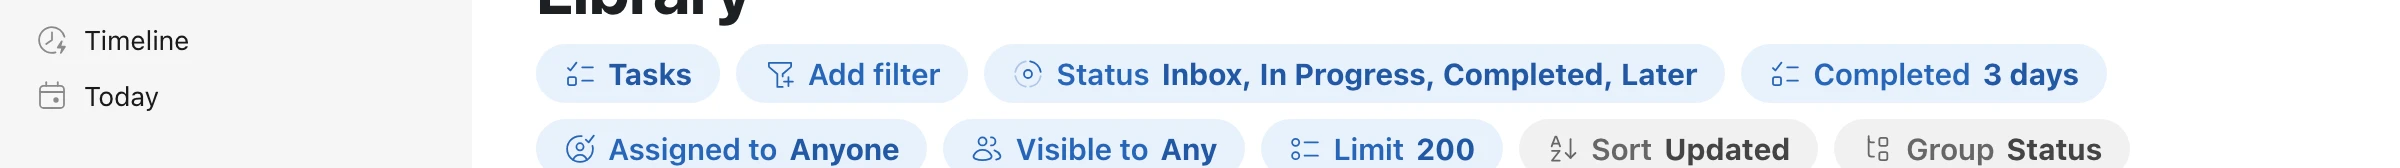
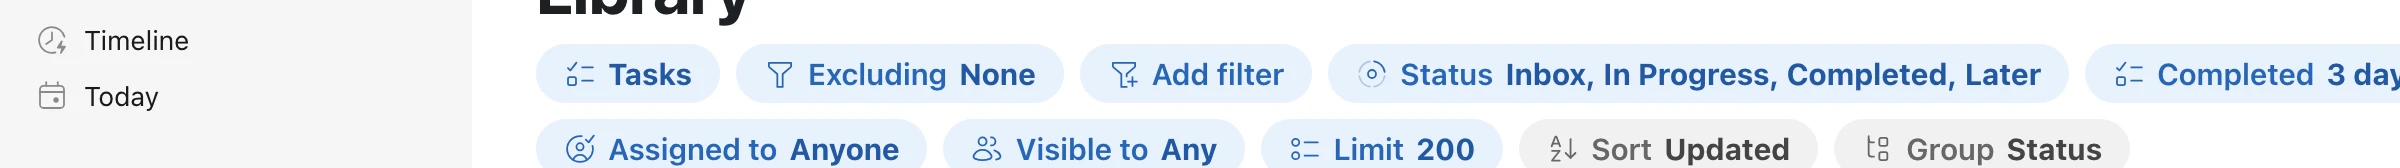
Add Excluding type filter to saved searches

diff --git a/main/views.js b/main/views.js
@@ -4,7 +4,7 @@ const path = require('node:path');
 const { peerIdentity } = require('../tana-session');
 const { createTanaClient, takeCalls } = require('../sdk');
 const { everyoneOnly } = require('../sdk/access');
-const { liveTrigger, parseQuery, searchParams, needsTypes, viewParams, completedInWindow, completedWindow, filterToSearchQuery, searchQueryToFilter, validViewFilter, VIEW_PRESETS, hideRules, isHidden, addMeetingChats } = require('../sdk/query');
+const { liveTrigger, parseQuery, searchParams, needsTypes, viewParams, excludedType, completedInWindow, completedWindow, filterToSearchQuery, searchQueryToFilter, validViewFilter, VIEW_PRESETS, hideRules, isHidden, addMeetingChats } = require('../sdk/query');
 const { readSearch, searchDisplay, searchSort, setSearchQuery, setSearchView, rowLimit } = require('../sdk/node');
 const { DOC_URI, LIVE_ROWS, NOT_CONNECTED, S, VIEWS, deletedNodes, docStates, errText, idKind, inboxFrom, handedAt, isDeleted, isMcp, memberTitle, now, pageOf, reading, truncatedViews, typeTitles, redoStack, report, scheduleRefresh, send, setStatus, subscribed, undoStack, visibleGraphNodes } = require('./state');
 const { graphRow, members, rememberNodeHue, resolveMeetings, resolveTypes, toNode, typesByTitle } = require('./rows');
@@ -48,7 +48,7 @@ async function viewRows(id, filter) {
   const rules = hiddenRules();
   let nodes = result.nodes.filter((n) => !(docsWithoutTasks && idKind(n.id) === 'text' && n.state && n.state.type))
     // the completed window (sdk/query.js): the graph has no field to ask it for, so it is applied to the answer
-    .filter((n) => completedInWindow(n, f.completedWithin))
+    .filter((n) => completedInWindow(n, f.completedWithin) && !excludedType(n, f.excluding))
     .filter((n) => !isHidden(memberTitle(n), rules));
   if (f.audience === 'everyone') nodes = await everyoneOnly(S.client.graph, nodes);
   nodes.forEach(rememberNodeHue);
@@ -192,7 +192,7 @@ async function searchCreate(id, title) {
   const filter = viewFilter(id); // throws on an unknown view before anything is created
   const query = filterToSearchQuery(filter, S.me && S.me.userUri, await workflowTypes(filter.types || []));
   const name = typeof title === 'string' && title.trim() ? title.trim() : searchTitle(id, filter);
-  return createDocument(name, { kind: 'search', query, view: { completedWithin: filter.completedWithin, audience: filter.audience, limit: filter.limit } });
+  return createDocument(name, { kind: 'search', query, view: { excluding: filter.excluding, completedWithin: filter.completedWithin, audience: filter.audience, limit: filter.limit } });
 }
 // My Tasks, the right half of the Default View (renderer/timeline.js): the search the synced setting 'myTasks' names, so a
 // rename in Tana keeps it and two machines share it; without one, your own saved search of that name (the oldest, so
@@ -522,7 +522,7 @@ const ipc = {
     return {
       // the completed window is the app's own, so it is stored beside the query and handed back as part of the filter
       // the pills edit; absent, it reads as the default the pill shows the first time Completed is asked for
-      filter: { ...searchQueryToFilter(query, S.me && S.me.userUri), completedWithin: completedWindow(arrangement.completedWithin), audience: arrangement.audience === 'everyone' ? 'everyone' : null, limit: rowLimit(arrangement.limit) },
+      filter: { ...searchQueryToFilter(query, S.me && S.me.userUri), excluding: validViewFilter({ excluding: arrangement.excluding }) ? arrangement.excluding : null, completedWithin: completedWindow(arrangement.completedWithin), audience: arrangement.audience === 'everyone' ? 'everyone' : null, limit: rowLimit(arrangement.limit) },
       sort: searchSort(arrangement.sortBy),
       group: arrangement.groupBy,
       // Tana's record of key -> { shown, order } (or the comma-joined string earlier builds wrote)
@@ -534,7 +534,7 @@ const ipc = {
     const flows = await workflowTypes(filter.types || []);
     return mut(id, (doc) => {
       setSearchQuery(doc, filterToSearchQuery(filter, S.me && S.me.userUri, flows));
-      setSearchView(doc, { sortBy: sort, groupBy: group, display, completedWithin: filter.completedWithin, audience: filter.audience, limit: filter.limit }); // saved together: one press, one state of the page
+      setSearchView(doc, { sortBy: sort, groupBy: group, display, excluding: filter.excluding, completedWithin: filter.completedWithin, audience: filter.audience, limit: filter.limit }); // saved together: one press, one state of the page
     });
   },
   // Hidden titles: the user's list of patterns, applied to every list and search (see listFilter/sdk-query isHidden).

diff --git a/sdk/query.js b/sdk/query.js
@@ -92,7 +92,7 @@ function assigneeParams(assignee, me) {
 // audience: 'everyone' lists what everyone in the org can see (#253). The graph can only ask Tana's "Open" (restricted:
 // false, which includes whatever a restricted space or meeting holds), so that is the query and access.js
 // everyoneOnly narrows the answer, the way completedWithin is applied after the query.
-const FILTER_KEYS = new Set(['types', 'states', 'assignee', 'text', 'participant', 'window', 'completedWithin', 'fields', 'audience', 'limit']);
+const FILTER_KEYS = new Set(['types', 'excluding', 'states', 'assignee', 'text', 'participant', 'window', 'completedWithin', 'fields', 'audience', 'limit']);
 const { USER_URI: USER, TYPE_URI } = require('./ids');
 // A filter's types may also name the workspace's own types (`tana:type:` uris, #139): every Risk, say. They are sent as
 // entityTypes, which the graph ORs among themselves and ANDs with the kinds (verified live 2026-09-25: Risk 18 +
@@ -128,6 +128,7 @@ function completedInWindow(n, within, now = Date.now()) {
 function validViewFilter(f) {
   return !!f && !Array.isArray(f) && typeof f === 'object' && Object.keys(f).every((k) => FILTER_KEYS.has(k))
     && (f.types === undefined || f.types === null || Array.isArray(f.types) && f.types.every((x) => VIEW_KINDS.includes(x) || TYPE_URI.test(x)))
+    && (f.excluding === undefined || f.excluding === null || Array.isArray(f.excluding) && f.excluding.every((x) => VIEW_KINDS.includes(x) || TYPE_URI.test(x)))
     && (f.states === undefined || f.states === null || Array.isArray(f.states) && f.states.every((x) => STATE_TYPES.includes(x)))
     && (f.assignee === undefined || ['me', 'anyone', 'unassigned'].includes(f.assignee) || USER.test(f.assignee))
     && (f.text === undefined || typeof f.text === 'string')
@@ -140,6 +141,13 @@ function validViewFilter(f) {
     // filterToSearchQuery passes on and attributeFilters cleans the way Tana does
     && (f.fields === undefined || f.fields === null || (typeof f.fields === 'object' && !Array.isArray(f.fields)
       && Object.entries(f.fields).every(([k, v]) => FIELD_KEY.test(k) && !!v && typeof v === 'object' && !Array.isArray(v))));
+}
+// Exclusions are applied after the server limit, like the completed-age filter: GraphService has no NOT selector.
+function excludedType(n, excluding) {
+  if (!Array.isArray(excluding)) return false;
+  const nodeType = String(n.id || '').split(':')[1];
+  const kind = nodeType === 'text' ? (n.state && n.state.type ? 'tasks' : 'docs') : NODE_TYPE_KIND[nodeType];
+  return excluding.includes(kind) || !!n.entityType && excluding.includes(n.entityType);
 }
 const FIELD_KEY = /^tana:type:[0-9a-z]{26}\?attribute=[0-9a-z]+$/;
 // A filter's field values narrow the list to the rows that have them, wherever each field has a pill to show it
@@ -399,4 +407,4 @@ function addMeetingChats(answer) {
   };
 }
 
-module.exports = { addMeetingChats, liveTrigger, parseQuery, searchParams, needsTypes, viewParams, searchQueryParams, searchOwners, filterToSearchQuery, searchQueryToFilter, validViewFilter, VIEW_PRESETS, VIEW_KINDS, KIND_NODE_TYPE, hideRules, isHidden, completedWindow, completedInWindow };
+module.exports = { excludedType, addMeetingChats, liveTrigger, parseQuery, searchParams, needsTypes, viewParams, searchQueryParams, searchOwners, filterToSearchQuery, searchQueryToFilter, validViewFilter, VIEW_PRESETS, VIEW_KINDS, KIND_NODE_TYPE, hideRules, isHidden, completedWindow, completedInWindow };

diff --git a/renderer/pills.js b/renderer/pills.js
@@ -17,7 +17,7 @@ function pillDefs() {
   // The kinds, then the workspace's own types (#139). The two sets do not mix: ticking one clears the other, since
   // Tasks and Risk together would mean tasks that are risks (sdk/query.js), never what somebody ticking both meant.
   const kindIds = TYPES.filter(Boolean).map((x) => x[0]), kinds = (f.types || []).filter((x) => kindIds.includes(x)), typed = (f.types || []).filter((x) => !kindIds.includes(x));
-  if (typed.length) loadWorkspaceTypes(); // the pill names them
+  if (typed.length || (f.excluding || []).length) loadWorkspaceTypes(); // the pill names them
   const typeName = (uri) => ((typeListCache || []).find((t) => t.uri === uri) || {}).title || '…';
   // A kind page (Tasks, Meetings, Chats, People) is that kind: only the Library and the Inbox pick their kinds.
   // A saved search is never a kind page — choosing what it lists is the whole point of it.
@@ -28,6 +28,14 @@ function pillDefs() {
     ...TYPES.map((t) => (t ? { label: t[1], icon: t[2], keepOpen: true, checked: kinds.includes(t[0]), run: () => save({ types: toggleIn(kindIds, kinds.length ? kinds : null, t[0]), fields: null }) } : { div: true })), // multi-select: the menu stays open to tick more
     ...(typeListCache && typeListCache.length ? [{ head: 'Workspace types' }, ...typeListCache.map((t) => ({ label: t.title || 'Untitled type', icon: typeGlyph(t.uri), keepOpen: true, checked: typed.includes(t.uri), run: () => save({ types: toggleIn(typeListCache.map((x) => x.uri), typed.length ? typed : null, t.uri), fields: null }) }))] : []),
   ]) });
+  if (!onTypePage()) {
+    const excluded = f.excluding || [], toggle = (id) => save({ excluding: excluded.includes(id) ? excluded.filter((x) => x !== id) : [...excluded, id] });
+    defs.push({ id: 'excluding', label: 'Excluding', command: 'Exclude types', icon: 'filter', value: excluded.map((id) => (TYPES.find((t) => t && t[0] === id) || [])[1] || typeName(id)).join(', ') || 'None', rows: () => (loadWorkspaceTypes(), [
+      { label: 'None', reset: true, checked: !excluded.length, run: () => save({ excluding: null }) },
+      ...TYPES.map((t) => t ? { label: t[1], icon: t[2], keepOpen: true, checked: excluded.includes(t[0]), run: () => toggle(t[0]) } : { div: true }),
+      ...(typeListCache && typeListCache.length ? [{ head: 'Workspace types' }, ...typeListCache.map((t) => ({ label: t.title || 'Untitled type', icon: typeGlyph(t.uri), keepOpen: true, checked: excluded.includes(t.uri), run: () => toggle(t.uri) }))] : []),
+    ]) });
+  }
   // Meetings alone: when they take place (#492), Tana's presets, one at a time.
   if (onlyMeetings(f)) defs.push({ id: 'when', label: 'When', command: 'Filter by meeting time', icon: 'calendar', value: whenName(f.window), rows: () => [
     { label: 'Any time', reset: true, checked: !f.window, run: () => save({ window: null }) },

diff --git a/scripts/sdk-check.js b/scripts/sdk-check.js
@@ -163,7 +163,10 @@ async function main() {
     assert.equal(view.sortBy, '-updated', "Orbital's Updated is newest first, which Tana spells -updated");
     assert.deepEqual(view.display, { status: { shown: true, order: 0 }, updated: { shown: true, order: 1 } });
     assert.deepEqual([nodeSdk.searchSort(view.sortBy), nodeSdk.searchDisplay(view.display), nodeSdk.searchDisplay('type,space')], ['updated', ['status', 'updated'], ['type', 'space']]);
+    nodeSdk.setSearchView(d, { excluding: ['tasks', 'tana:type:' + 'a'.repeat(26)] });
+    assert.deepEqual(nodeSdk.readSearch(d).view.excluding, ['tasks', 'tana:type:' + 'a'.repeat(26)], 'saved exclusions round-trip');
     nodeSdk.setSearchView(d, { sortBy: 'title' });
+    assert.equal(nodeSdk.readSearch(d).view.excluding, undefined, 'clearing exclusions removes the stored value');
     assert.equal(d.loro.getMap('view').toJSON().sortBy, 'title', 'A to Z is Tana\'s ascending title');
     assert.deepEqual(nodeSdk.readSearch(d), { query: d.loro.getMap('query').toJSON(), view: { sortBy: 'title' } }, 'readSearch hands back what the two writers stored');
     assert.deepEqual(nodeSdk.readSearch(new Document('tana:search:' + ulid())), { query: {}, view: {} }, 'and an unreadable search reads as an empty query, which searchChildren refuses');
@@ -4608,6 +4611,18 @@ async function main() {
     assert.equal(viewParams({ types: ['docs'], text: ' dpa ' }, ME, 25).limit, 25);
     assert.equal(validViewFilter({ types: ['docs'], states: null, assignee: 'anyone', text: '', participant: null, window: null }), true);
     assert.equal(validViewFilter({ types: ['nope'] }), false);
+    const { excludedType } = require('../sdk/query');
+    const exclusionType = 'tana:type:' + 'a'.repeat(26);
+    assert.equal(validViewFilter({ excluding: ['tasks', exclusionType] }), true);
+    assert.equal(validViewFilter({ excluding: ['nope'] }), false);
+    const excludedTask = { id: 'tana:text:x', state: { type: 'closed' }, entityType: exclusionType };
+    assert.equal(excludedType(excludedTask, ['tasks']), true);
+    assert.equal(excludedType(excludedTask, ['docs']), false);
+    assert.equal(excludedType(excludedTask, [exclusionType]), true);
+    assert.equal(excludedType({ id: 'tana:text:x' }, ['docs']), true);
+    assert.equal(excludedType({ id: 'tana:event:x' }, ['meetings']), true);
+    assert.equal(excludedType(excludedTask, null), false);
+
     assert.equal(validViewFilter({ types: ['tasks'], extra: true }), false);
     // The completed window: how old a completed task may be and still be listed. Whether completed tasks are asked
     // for at all is the Status filter (stateTypes), so this never has an "off" — and the graph has no field to ask

diff --git a/main/related.js b/main/related.js
@@ -3,7 +3,7 @@ const fields = require('../sdk/fields');
 const pins = require('../sdk/pins');
 const { dateUri, isDateUri } = require('../sdk/dates');
 const { openEdgeQuery, openLiveQuery, EDGE_TYPES } = require('../sdk/livequery');
-const { completedInWindow, filterToSearchQuery, liveTrigger, searchQueryParams, validViewFilter } = require('../sdk/query');
+const { excludedType, completedInWindow, filterToSearchQuery, liveTrigger, searchQueryParams, validViewFilter } = require('../sdk/query');
 const { everyoneOnly } = require('../sdk/access');
 const { readSearch, rowLimit } = require('../sdk/node');
 const { NOTES_SLOTS, callOf, notesSlotId, writeUpOf } = require('../sdk/events');
@@ -48,7 +48,7 @@ async function searchChildren(id, page = 'main') {
   // renderer/nodes.js). A newer read that failed decides nothing, so an older one that answered still keeps its rows live.
   // And only for what the search asks now: an older read that answered after a Save asked what came before. That is
   // the query and the two view settings searchRows narrows the answer by (completed window, audience).
-  const asks = (q, v) => JSON.stringify([q, (v || {}).completedWithin, (v || {}).audience, rowLimit((v || {}).limit)]);
+  const asks = (q, v) => JSON.stringify([q, (v || {}).excluding, (v || {}).completedWithin, (v || {}).audience, rowLimit((v || {}).limit)]);
   const same = await op(id, readSearch).then((now) => asks(now.query, now.view) === asks(query, view), () => false);
   if (same && seq > (headRead.get(read) || 0)) {
     headRead.set(read, seq);
@@ -91,7 +91,7 @@ async function searchRows(query, narrow, limit = 200) {
   const scoped = Array.isArray(query.ownerUris) && query.ownerUris.some((u) => typeof u === 'string' && isSpace(u));
   const spaces = scoped ? (await S.client.graph.listNodes({ nodeTypes: ['space'], limit: 1000 })).nodes : [];
   const answered = await S.client.graph.listNodes(searchQueryParams(query, S.me && S.me.userUri, limit, undefined, spaces));
-  let nodes = answered.nodes.filter((n) => completedInWindow(n, narrow.completedWithin));
+  let nodes = answered.nodes.filter((n) => completedInWindow(n, narrow.completedWithin) && !excludedType(n, narrow.excluding));
   if (narrow.audience === 'everyone') nodes = await everyoneOnly(S.client.graph, nodes);
   nodes.forEach(rememberNodeHue);
   await Promise.all([resolveTypes(nodes.map((n) => n.entityType)), resolveMeetings(nodes)]);

diff --git a/renderer/mock.js b/renderer/mock.js
@@ -377,7 +377,7 @@ function mockApi() {
   // the rows a filter finds: a staged filter's preview, and a saved search's page (children)
   const preview = (filter) => {
     const text = String(filter.text || '').trim().toLowerCase();
-    return [...all, ...members].filter((d) => (!filter.types ? kindOf(d) !== 'people' : filter.types.includes(kindOf(d)) || (d.tags || []).some((t) => t && filter.types.includes(t.uri)))
+    return [...all, ...members].filter((d) => !(filter.excluding || []).includes(kindOf(d)) && !(d.tags || []).some((t) => t && (filter.excluding || []).includes(t.uri))).filter((d) => (!filter.types ? kindOf(d) !== 'people' : filter.types.includes(kindOf(d)) || (d.tags || []).some((t) => t && filter.types.includes(t.uri)))
       && (!filter.states || listed(d, filter))
       && meetingWindow(d, filter) && d.text.toLowerCase().includes(text)).map(info);
   };
@@ -413,7 +413,7 @@ function mockApi() {
     viewList: async (_id, filter) => {
       await new Promise((r) => setTimeout(r, 30));
       const text = String(filter.text || '').trim().toLowerCase();
-      return { nodes: [...all, ...members].filter((d) => (!filter.types ? !['people', 'types'].includes(kindOf(d)) : filter.types.includes(kindOf(d)) || (d.tags || []).some((t) => t && filter.types.includes(t.uri)))
+      return { nodes: [...all, ...members].filter((d) => !(filter.excluding || []).includes(kindOf(d)) && !(d.tags || []).some((t) => t && (filter.excluding || []).includes(t.uri))).filter((d) => (!filter.types ? !['people', 'types'].includes(kindOf(d)) : filter.types.includes(kindOf(d)) || (d.tags || []).some((t) => t && filter.types.includes(t.uri)))
         && (!filter.states || (filter.types && !filter.types.includes('tasks')) || listed(d, filter)) // a state only filters tasks (sdk/query.js)
         && meetingWindow(d, filter) && d.text.toLowerCase().includes(text)).map(info), truncated: false };
     },

diff --git a/manual/views.html b/manual/views.html
@@ -116,7 +116,7 @@
     <h2 id="pills" data-k="filter pill status assigned visible limit completed when">Filter with the pills</h2>
     <p>The pills under the title say what the list asks Tana for. Blue pills filter which rows come back; grey ones only arrange the rows that did.</p>
     <figure class="anno wide">
-      <img data-m="views-pills" alt="The Library's pills: Type, Add filter, Status, Completed, Assigned to, Visible to, Limit, Sort, Group, Display and Save as search">
+      <img data-m="views-pills" alt="The Library's pills: Type, Excluding, Add filter, Status, Completed, Assigned to, Visible to, Limit, Sort, Group, Display and Save as search">
       <span class="pin" style="--x:3.4%;--y:27%">1</span>
       <span class="pin" style="--x:21.8%;--y:27%">2</span>
       <span class="pin" style="--x:52.6%;--y:27%">3</span>
@@ -127,6 +127,7 @@
       <span class="pin" style="--x:58.4%;--y:71%">8</span>
     </figure>
     <ol class="legend">
+      <li><b>Excluding</b> Removes selected kinds or workspace types from the results. Use <b>None</b> to clear it, or <kbd>⌘K</kbd> → <b>Exclude types</b>. Exclusions win over Type and are saved with the search. Both Orbital phones honour them; Tana’s own app does not. They apply after the result limit, so fewer rows may remain.</li>
       <li><b>Type</b> Picks kinds (Meetings, Tasks, Docs, Chats, Canvases, Agents, Skills, Searches, Spaces, People, Types) or your workspace's own types. The two lists never mix: ticking one clears the other.</li>
       <li><b>Status</b> Picks task states: Inbox, In Progress, Completed, Later. It only counts while tasks are in the list: Tasks, or workspace types that have a workflow.</li>
       <li><b>Completed</b> How old a completed task may be and still show: 3 days, 7 days, 30 days or All. Shown while Status lets Completed in.</li>

diff --git a/ios/engine/index.js b/ios/engine/index.js
@@ -10,7 +10,7 @@ import { insertAfter, insertImage, readOutline } from '../../sdk/content';
 import { initImage, uploadFile } from '../../sdk/assets';
 import { addMessage, chatRows, triggerReply } from '../../sdk/chat';
 import { datePins, pinDate, sidebarTree, unpinDate } from '../../sdk/pins';
-import { completedInWindow, liveTrigger, searchQueryParams, searchQueryToFilter } from '../../sdk/query';
+import { excludedType, completedInWindow, liveTrigger, searchQueryParams, searchQueryToFilter } from '../../sdk/query';
 import { definitions, fieldDefinition, parseKey, setFieldText } from '../../sdk/fields';
 import { dateLabel, isDateUri } from '../../sdk/dates';
 import { NOTES_SLOTS, attendees, notesOurs, notesSlotId, writeUpOf } from '../../sdk/events';
@@ -161,7 +161,7 @@ async function searchRows(doc) {
   const scoped = (query.ownerUris || []).some((u) => typeof u === 'string' && isSpace(u));
   const spaces = scoped ? (await S.client.graph.listNodes({ nodeTypes: ['space'], limit: 1000 })).nodes : [];
   const { nodes = [] } = await S.client.graph.listNodes(searchQueryParams(query, S.me.userUri, rowLimit(view.limit), undefined, spaces));
-  let found = nodes.filter((n) => completedInWindow(n, view.completedWithin));
+  let found = nodes.filter((n) => completedInWindow(n, view.completedWithin) && !excludedType(n, view.excluding));
   if (view.audience === 'everyone') found = await everyoneOnly(S.client.graph, found);
   // arranged as the search was saved: its sort and its sections (arrange.js), with what they are named by
   const types = [...new Set(found.map((n) => n.entityType).filter(Boolean))];

diff --git a/renderer/nodes.js b/renderer/nodes.js
@@ -600,11 +600,11 @@ function loadSearchFilter(docId) {
     render();
   }, (e) => { searchFilters.delete(docId); showError(e); });
 }
-const clearFilter = (f = {}) => ({ types: null, states: null, assignee: 'anyone', text: '', fields: null, audience: null, participant: f.participant || null, window: f.window || null });
+const clearFilter = (f = {}) => ({ types: null, excluding: null, states: null, assignee: 'anyone', text: '', fields: null, audience: null, participant: f.participant || null, window: f.window || null });
 const sameList = (a, b) => JSON.stringify(a ? [...a].sort() : a) === JSON.stringify(b ? [...b].sort() : b);
 const sameFields = (a, b) => { const json = (f) => JSON.stringify(Object.entries(f || {}).sort(([x], [y]) => x.localeCompare(y))); return json(a) === json(b); };
 function sameFilter(a = {}, b = {}) {
-  return sameList(a.types || null, b.types || null) && sameList(a.states || null, b.states || null)
+  return sameList(a.types || null, b.types || null) && sameList(a.excluding?.length ? a.excluding : null, b.excluding?.length ? b.excluding : null) && sameList(a.states || null, b.states || null)
     && (a.assignee || 'anyone') === (b.assignee || 'anyone') && String(a.text || '') === String(b.text || '')
     && completedWindow(a) === completedWindow(b) // unset reads as the default, so a stored 7 and an unset one are one filter
     && (a.audience || null) === (b.audience || null)

diff --git a/scripts/flow-check.js b/scripts/flow-check.js
@@ -1307,6 +1307,21 @@ flow('golden path: group, sort and filter the Library, then save it as a search'
   assert.deepEqual([...await p.js('__screen()')].sort(), offsite, 'the saved search lists what the view showed');
 });
 
+flow('exclude types and keep the exclusion in a saved search', async (p) => {
+  await p.start();
+  await command(p, 'library', 'Library'); await closePalette(p); await settle(p, 400);
+  await p.js("pillDefs().find(d => d.id === 'excluding').rows().find(r => r.label === 'Tasks').run()");
+  await settle(p, 600);
+  assert.equal(await p.js('shownDocs().length'), 0, 'excluding the included kind leaves no rows');
+  await command(p, 'save as', 'Save as new search');
+  await p.waitFor('zoom && String(zoom.docId).startsWith("tana:search:")', 'saved exclusion');
+  await settle(p, 400);
+  assert.deepEqual(await p.js('filters.get(pillKey()).excluding'), ['tasks']);
+  await p.js("pillDefs().find(d => d.id === 'excluding').rows().find(r => r.label === 'None').run()");
+  await settle(p, 600);
+  assert.ok(await p.js('shownDocs().length') > 0, 'clearing exclusions restores the preview');
+});
+
 // 19. Notifications and Proposals (#135 family): a bullet marks one read, Mark all as read the rest, a row opens what
 // it is about; a proposal approved from Cmd+K and one rejected with its button both leave the page
 flow('golden path: read notifications and settle proposals', async (p) => {

diff --git a/scripts/renderer-behavior-check.js b/scripts/renderer-behavior-check.js
@@ -3636,7 +3636,7 @@ const definitions = 'const onSearchPage = () => false, pillKey = () => view, set
     'letting Completed in offers the window, defaulting to 7 days the first time it is asked for');
   assert.deepEqual(plain(completedPill().rows().map((r) => [r.label, !!r.checked])), [['3 days', false], ['7 days', true], ['30 days', false], ['All', false]],
     'the choices are the four the rule knows, with the active one ticked and no way to turn completed tasks off here');
-  assert.deepEqual(plain(api.pillDefs().map((d) => d.id)), ['status', 'completed', 'assigned', 'audience', 'limit', 'sort', 'group', 'display'],
+  assert.deepEqual(plain(api.pillDefs().map((d) => d.id)), ['excluding', 'status', 'completed', 'assigned', 'audience', 'limit', 'sort', 'group', 'display'],
     'and it sits with the filters, right after the Status pill it belongs to');
   completedPill().rows().find((r) => r.label === '30 days').run();
   assert.deepEqual(plain(api.savedPatch()), { completedWithin: 30 }, 'choosing one writes the window and touches nothing else about the filter');

diff --git a/manual/scenes/views.js b/manual/scenes/views.js
@@ -13,7 +13,7 @@ module.exports = [
     { js: "const tasks = shownDocs().filter(isTask); for (const n of tasks.slice(0, 3)) { n.createdBy = me().id; taskMetaById.set(n.id, { ...taskMetaById.get(n.id), assignees: [me().id] }); n.stateType = 'open'; } for (const n of tasks.slice(1, 3)) n.pinnedToMeeting = true; render(true)" },
     { wait: 400 }], clip: [0, 30, 1000, 740] },
   // the pills over the Library, for the annotated picture
-  { name: 'views-pills', setup: library(), clip: [0, 96, 1200, 84] },
+  { name: 'views-pills', setup: [...library(), { js: 'renderPills(true)' }], clip: [0, 96, 1200, 84] },
   // the three presets, through Cmd+K
   { name: 'views-presets', video: true, size: '1000x640', setup: library(), clip: [0, 30, 1000, 520], steps: [
     { wait: 500 }, { key: '⌘K' }, { type: 'Types', delay: 90 }, { wait: 300 }, { key: '↩' }, { wait: 1200 },
